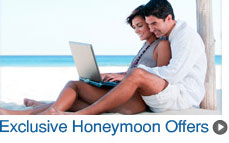
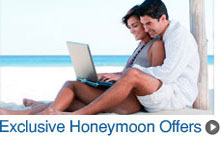
update page

diff --git a/trunk/journeystyles/south-america-honeymoon-recommended-itineraries.html b/trunk/journeystyles/south-america-honeymoon-recommended-itineraries.html
@@ -271,8 +271,8 @@ href="../yahoo.html">
 </div>
 <div class="Clr"></div>
 <div class="count-page">
-<a href="south-america-honeymoon-recommended-itineraries.html">1</a> |
-<a href="south-america-honeymoon-recommended-itineraries-2.html"><strong>2</strong></a>
+<a href="south-america-honeymoon-recommended-itineraries.html"><strong>1</strong></a> |
+<a href="south-america-honeymoon-recommended-itineraries-2.html">2</a> |
 <a href="south-america-honeymoon-recommended-itineraries-2.html"> Next >  </a>
 </div>
 <div class="Clr"></div>
@@ -361,8 +361,8 @@ beach resort in Brazil.</p>
 </div>
 <div class="Clr"></div>
 <div class="count-page">
-<a href="south-america-honeymoon-recommended-itineraries.html">1</a> |
-<a href="south-america-honeymoon-recommended-itineraries-2.html"><strong>2</strong></a>
+<a href="south-america-honeymoon-recommended-itineraries.html"><strong>1</strong></a> |
+<a href="south-america-honeymoon-recommended-itineraries-2.html">2</a> |
 <a href="south-america-honeymoon-recommended-itineraries-2.html"> Next >  </a>
 </div>
 <div class="Clr"></div>

diff --git a/trunk/index-new-design.html b/trunk/index-new-design.html
@@ -191,7 +191,7 @@ include("classes/mimemail.class.php");
 			</div> <!-- Form Container -->
 			
 			
-			<div class="LeftList">
+			<div class="LeftList" style="margin-top:14px;">
 			    <h4><a href="destinations/destinations.html">TRAVEL Destinations</a></h4>
 			    <ul>
 				<li><a href="destinations/africa.html" title="Africa">Africa</a></li>
@@ -243,7 +243,7 @@ include("classes/mimemail.class.php");
 		    </div>
 		    <!-- Left Container Part End Here -->
 		    <!-- Center Container Part Start Here -->
-		    <div class="CenterContaner" style="width:505px;">
+		    <div class="CenterContaner" style="width:495px;">
                         <h1 style="font-size: 20px ; color: #505050;">A&K Journey Styles </h1>
                         <a href="journeystyles/honeymoon-recommended-itineraries-introduction.html"><img src="images/ak_font1.jpg" alt="" title=""style=" padding-top: 7px;" /></a>
                         <a href="journeystyles/family-holidays-itineraries.html"><img src="images/ak_font.jpg" alt="" title=""style=" padding-top: 7px;" /></a>

diff --git a/trunk/journeystyles/theorient-honeymoon-recommended-itineraries-2.html b/trunk/journeystyles/theorient-honeymoon-recommended-itineraries-2.html
@@ -273,7 +273,7 @@ href="../yahoo.html">
 <div class="count-page">
 <a href="theorient-honeymoon-recommended-itineraries.html"> Prev > </a>
 <a href="theorient-honeymoon-recommended-itineraries.html">1</a> |
-<a href="theorient-honeymoon-recommended-itineraries-2.html">2</a> 
+<a href="theorient-honeymoon-recommended-itineraries-2.html"><strong>2</strong></a> 
 </div>
 <div class="Clr"></div>
 <div class="RecommendedBox">
@@ -334,8 +334,8 @@ href="../yahoo.html">
 <div class="count-page">
 <a href="theorient-honeymoon-recommended-itineraries.html"> Prev > </a>
 <a href="theorient-honeymoon-recommended-itineraries.html">1</a> |
-<a href="theorient-honeymoon-recommended-itineraries-2.html">2</a>
-</div>
+<a href="theorient-honeymoon-recommended-itineraries-2.html"><strong>2</strong></a>
+</div></div>
 <div class="Clr"></div>
 <!-- Center Container Part End Here -->
 <div class="Clr"></div>

diff --git a/trunk/journeystyles/theorient-honeymoon-recommended-itineraries.html b/trunk/journeystyles/theorient-honeymoon-recommended-itineraries.html
@@ -271,7 +271,7 @@ href="../yahoo.html">
 </div>
 <div class="Clr"></div>
 <div class="count-page">
-<a href="theorient-honeymoon-recommended-itineraries.html">1</a> |
+<a href="theorient-honeymoon-recommended-itineraries.html"><strong>1</strong></a> |
 <a href="theorient-honeymoon-recommended-itineraries-2.html">2</a> |
 <a href="theorient-honeymoon-recommended-itineraries-2.html"> Next > </a>
 </div>
@@ -353,7 +353,7 @@ With secluded resorts
 </div>
 <div class="Clr"></div>
 <div class="count-page">
-<a href="theorient-honeymoon-recommended-itineraries.html">1</a> |
+<a href="theorient-honeymoon-recommended-itineraries.html"><strong>1</strong></a> |
 <a href="theorient-honeymoon-recommended-itineraries-2.html">2</a> |
 <a href="theorient-honeymoon-recommended-itineraries-2.html"> Next > </a>
 </div>

diff --git a/trunk/journeystyles/north-america-honeymoon-recommended-itineraries.html b/trunk/journeystyles/north-america-honeymoon-recommended-itineraries.html
@@ -164,7 +164,7 @@ href="../yahoo.html">
 <!-- Header Part End Here -->
 
 <!-- Banner Part Start Here -->
-<div id="Banner"><img src="../images/honeymoon/honeymoon-banners1.jpg" alt="Best Honeymoon Destination" width="959" height="300" /></div>
+<div id="Banner"><img src="../images/honeymoon/honeymoon-banners9.jpg" alt="Best Honeymoon Destination" width="959" height="300" /></div>
 <!-- Banner Part End Here -->
 
 <!-- Container Part Start Here -->
@@ -271,6 +271,7 @@ href="../yahoo.html">
 
 <p> currently there is no Honeymoon Recomended Itinerary
 for this region</p>
+</div></div>
 <!-- Center Container Part End Here -->
 <div class="Clr"></div>
 </div>

diff --git a/trunk/journeystyles/beach-island-honeymoon-recommended-itineraries.html b/trunk/journeystyles/beach-island-honeymoon-recommended-itineraries.html
@@ -166,7 +166,7 @@ href="../yahoo.html">
 <!-- Header Part End Here -->
 
 <!-- Banner Part Start Here -->
-<div id="Banner"><img src="../images/honeymoon/honeymoon-banners3.jpg" alt="Luxury Honeymoon" width="959" height="300" /></div>
+<div id="Banner"><img src="../images/honeymoon/honeymon-banner.jpg" alt="Luxury Honeymoon" width="959" height="300" /></div>
 <!-- Banner Part End Here -->
 
 <!-- Container Part Start Here -->

diff --git a/trunk/journeystyles/africa-honeymoon-recommended-itineraries-2.html b/trunk/journeystyles/africa-honeymoon-recommended-itineraries-2.html
@@ -313,7 +313,7 @@ href="../yahoo.html">
 <a href="africa-honeymoon-recommended-itineraries.html"> 1 </a> |
 <a href="africa-honeymoon-recommended-itineraries-2.html"><strong>2</strong></a> 
 </div>
-</div>
+</div></div>
 <!-- Center Container Part End Here -->
 <div class="Clr"></div>
 </div>

diff --git a/trunk/journeystyles/arctic-honeymoon-recommended-itineraries.html b/trunk/journeystyles/arctic-honeymoon-recommended-itineraries.html
@@ -271,6 +271,7 @@ href="../yahoo.html">
 
 <p> currently there is no Honeymoon Recomended Itinerary
 for this region</p>
+</div></div>
 <!-- Center Container Part End Here -->
 <div class="Clr"></div>
 </div>
